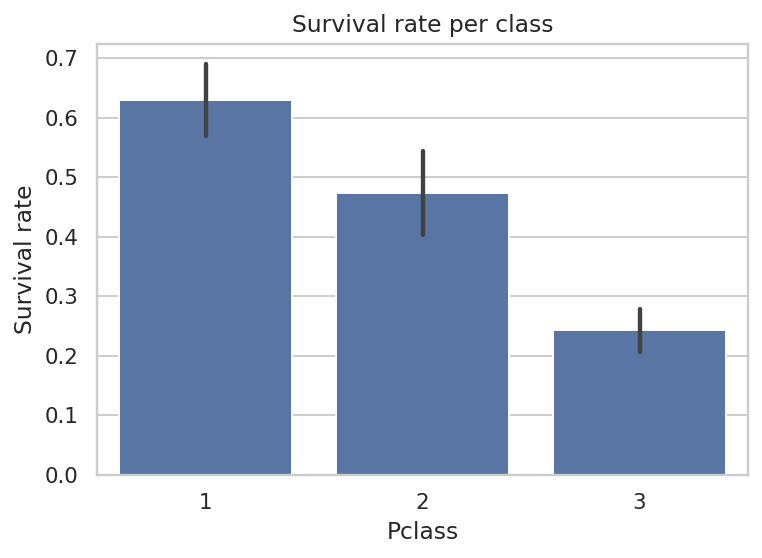
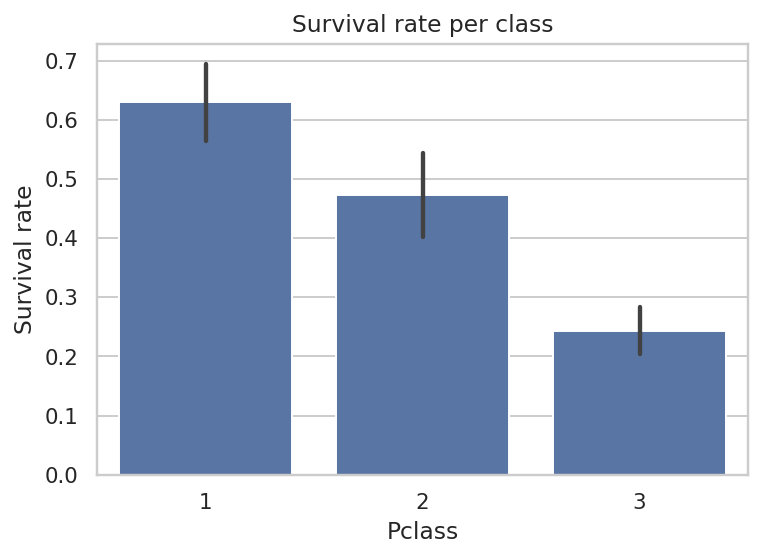
Agregado de reportes en csv ademas de los plots

diff --git a/src/eda.py b/src/eda.py
@@ -6,7 +6,11 @@ import os
 sns.set(style="whitegrid")
 
 PLOTS_DIR = os.path.join(os.path.dirname(__file__), "..", "outputs", "plots")
+REPORTS_DIR = os.path.join(os.path.dirname(__file__), "..", "outputs", "reports")
 os.makedirs(PLOTS_DIR, exist_ok=True)
+os.makedirs(REPORTS_DIR, exist_ok=True)
+
+# ------------------------------------------------------------
 
 
 def save_fig(fig, name):
@@ -14,6 +18,15 @@ def save_fig(fig, name):
     fig.savefig(path, bbox_inches="tight", dpi=140)
     plt.close(fig)
     print("Saved: ", path)
+
+
+def save_report(df, filename):
+    path = os.path.join(REPORTS_DIR, filename)
+    df.to_csv(path, index=True)
+    print("Report saved in: ", path)
+
+
+# -----------------------------------------------------------
 
 
 def plot_survived_by_sex(df):
@@ -35,3 +48,14 @@ def plot_pclass_survival(df):
     ax.set_ylabel("Survival rate")
     ax.set_title("Survival rate per class")
     save_fig(fig, "pclas_survival.png")
+
+
+def survival_by_class_and_sex(df):
+    pivot = df.pivot_table(
+        values="Survived", index="Pclass", columns="Sex", aggfunc="mean"
+    )
+    fig, ax = plt.subplots(figsize=(6, 4))
+    sns.heatmap(pivot, annot=True, cmap="YlGnBu", fmt=".2f", ax=ax)
+    ax.set_title("Survival rate by class and sex")
+    save_fig(fig, "survival_heatmap.png")
+    save_report(pivot, "survival_by_class_and_sex.csv")

diff --git a/src/run.py b/src/run.py
@@ -1,6 +1,11 @@
 # src/run.py
 from data_utils import load_data, basic_info
-from eda import plot_survived_by_sex, plot_pclass_survival, plot_age_distribution
+from eda import (
+    plot_survived_by_sex,
+    plot_pclass_survival,
+    plot_age_distribution,
+    survival_by_class_and_sex,
+)
 import os
 
 DATA_PATH = os.path.join("..", "data", "train.csv")
@@ -8,10 +13,13 @@ DATA_PATH = os.path.join("..", "data", "train.csv")
 
 def main():
     df = load_data(DATA_PATH)
+    df = df.dropna(subset=["Age", "Fare", "Sex", "Pclass", "Survived"])
+
     basic_info(df)
     plot_survived_by_sex(df)
     plot_age_distribution(df)
     plot_pclass_survival(df)
+    survival_by_class_and_sex(df)
 
 
 if __name__ == "__main__":
